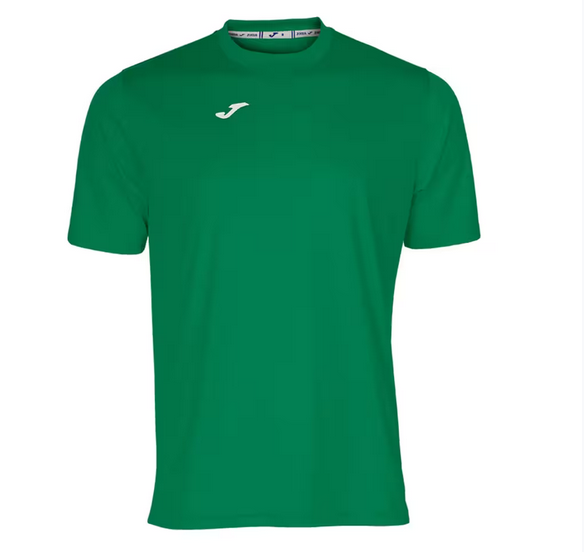
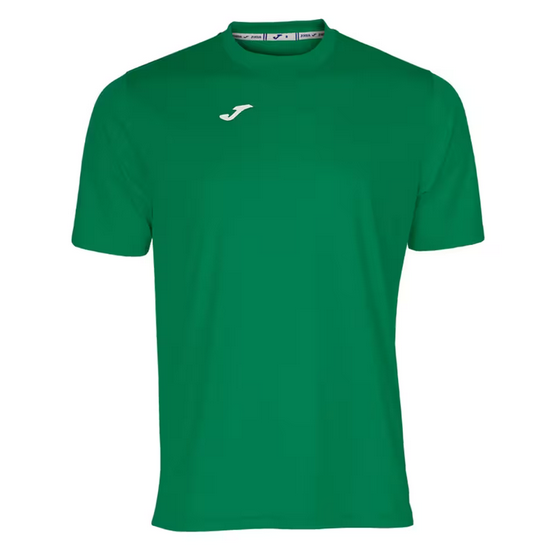
same height img card

diff --git a/nayeli-app/src/app/components/product-card/product-card.component.html b/nayeli-app/src/app/components/product-card/product-card.component.html
@@ -1,6 +1,6 @@
 <div class="my-2">
     <div class="relative group">
-        <div class="overflow-hidden aspect-w-1 aspect-h-1 rounded-lg">
+        <div class="overflow-hidden aspect-w-1 aspect-h-1 rounded-lg h-60">
             <a href="#url">
                 <img class="object-cover w-full h-full transition-all duration-300 group-hover:scale-110"
                     [src]="'/assets/img/'+ product.img" alt="" />
